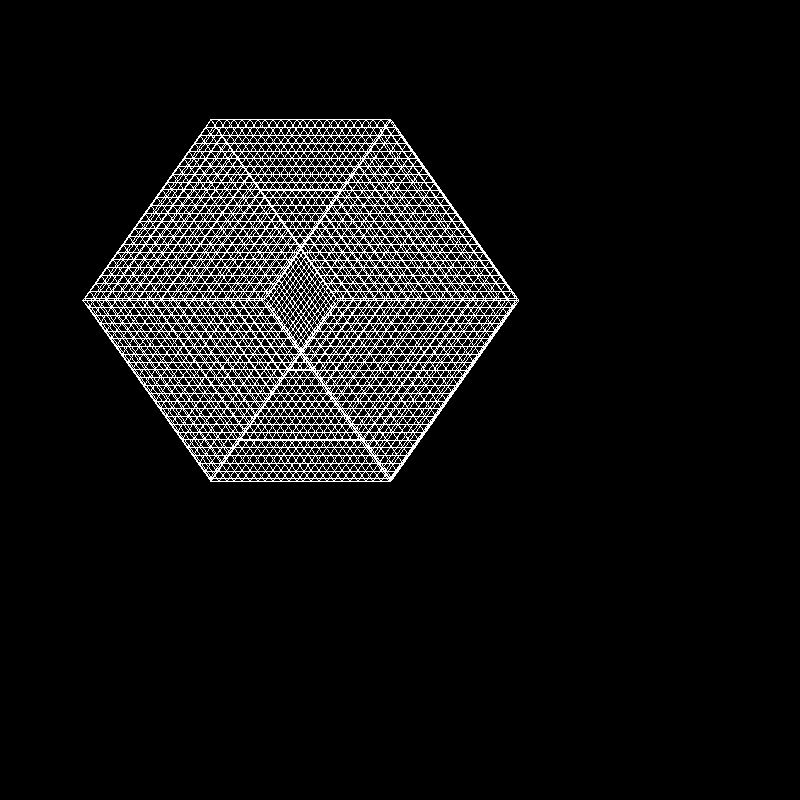
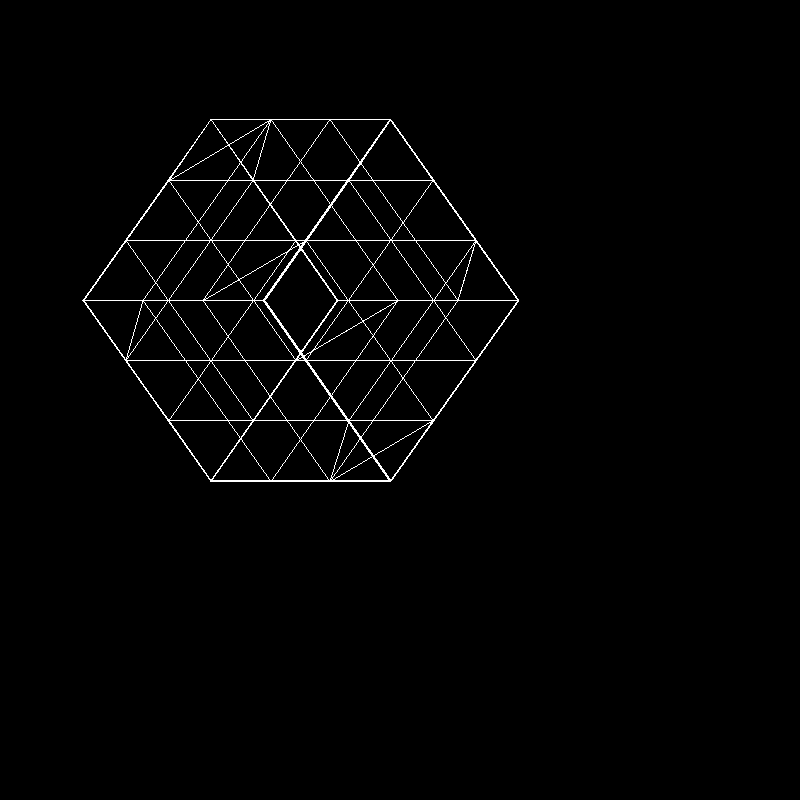
stuff

Changed region(s): [[0.0938, 0.1562, 0.6562, 0.625]]

diff --git a/a1.py b/a1.py
@@ -111,12 +111,26 @@ def rasterize(point1, point2, image):
         image[math.ceil(x)][math.ceil(y)].cBlue = 255
 
 
-def connect(matrix, key):
+def connect(matrix, resolution, key):
     connectionPoints = []
 
     for x in matrix:
-        if (x.send_vals()[0] - key.send_vals()[0] == 0 and x.send_vals()[2] == key.send_vals()[2]) or (x.send_vals()[1] - key.send_vals()[1] == 0 and x.send_vals()[2] == key.send_vals()[2]) or (x.send_vals()[2] - key.send_vals()[2] != 0 and x.send_vals()[1] == key.send_vals()[1] and x.send_vals()[0] == key.send_vals()[0]):
+        if (x.send_vals()[0] - key.send_vals()[0] == 0 and x.send_vals()[2] == key.send_vals()[2])\
+        or (x.send_vals()[1] - key.send_vals()[1] == 0 and x.send_vals()[2] == key.send_vals()[2])\
+        or (x.send_vals()[2] - key.send_vals()[2] != 0 and x.send_vals()[1] == key.send_vals()[1] and x.send_vals()[0] == key.send_vals()[0]):
             connectionPoints.append(x)
+
+
+
+    for x in matrix:
+    	
+    	dist = math.sqrt( math.pow((x.get_x() - key.get_x()), 2) + math.pow((x.get_y() - key.get_y()),2) + math.pow((x.get_z() - key.get_z()),2))
+    	squareLen = math.sqrt(2 * math.pow((255/resolution), 2))
+    	if (x.get_x() == key.get_y() and x.get_y() == key.get_x() and x.get_z() == key.get_z()) and ((squareLen*0.95) <= dist <= (squareLen * 1.05))\
+    	or (x.get_z() == key.get_x() and x.get_x() == key.get_z() and x.get_y() == key.get_y()) and ((squareLen*0.95) <= dist <= (squareLen * 1.05))\
+    	or (x.get_y() == key.get_z() and x.get_z() == key.get_y() and x.get_x() == key.get_x()) and ((squareLen*0.95) <= dist <= (squareLen * 1.05)):
+    		
+    		connectionPoints.append(x)
 
     return connectionPoints
 
@@ -146,7 +160,7 @@ def cube(res):
 
     coordList = [coords(x[0], x[1], x[2]) for x in finalPoints]
 
-    connect(coordList, coordList[0])
+    connect(coordList, resolution, coordList[0])
 
     for k in coordList:
         k.set_x(k.xCoord)
@@ -154,10 +168,13 @@ def cube(res):
         k.set_z(k.zCoord)
         matrix.append(k)
 
+    for x in matrix:
+    	print(x.send_vals())
+
     coordSet = [x for x in matrix]
 
     for key in coordSet:
-        connections[key] = connect(coordList, key)
+        connections[key] = connect(coordList, resolution, key)
 
     # transform the x and y coordinates to make 3d shape more clear
     yTransform(matrix, angle)
